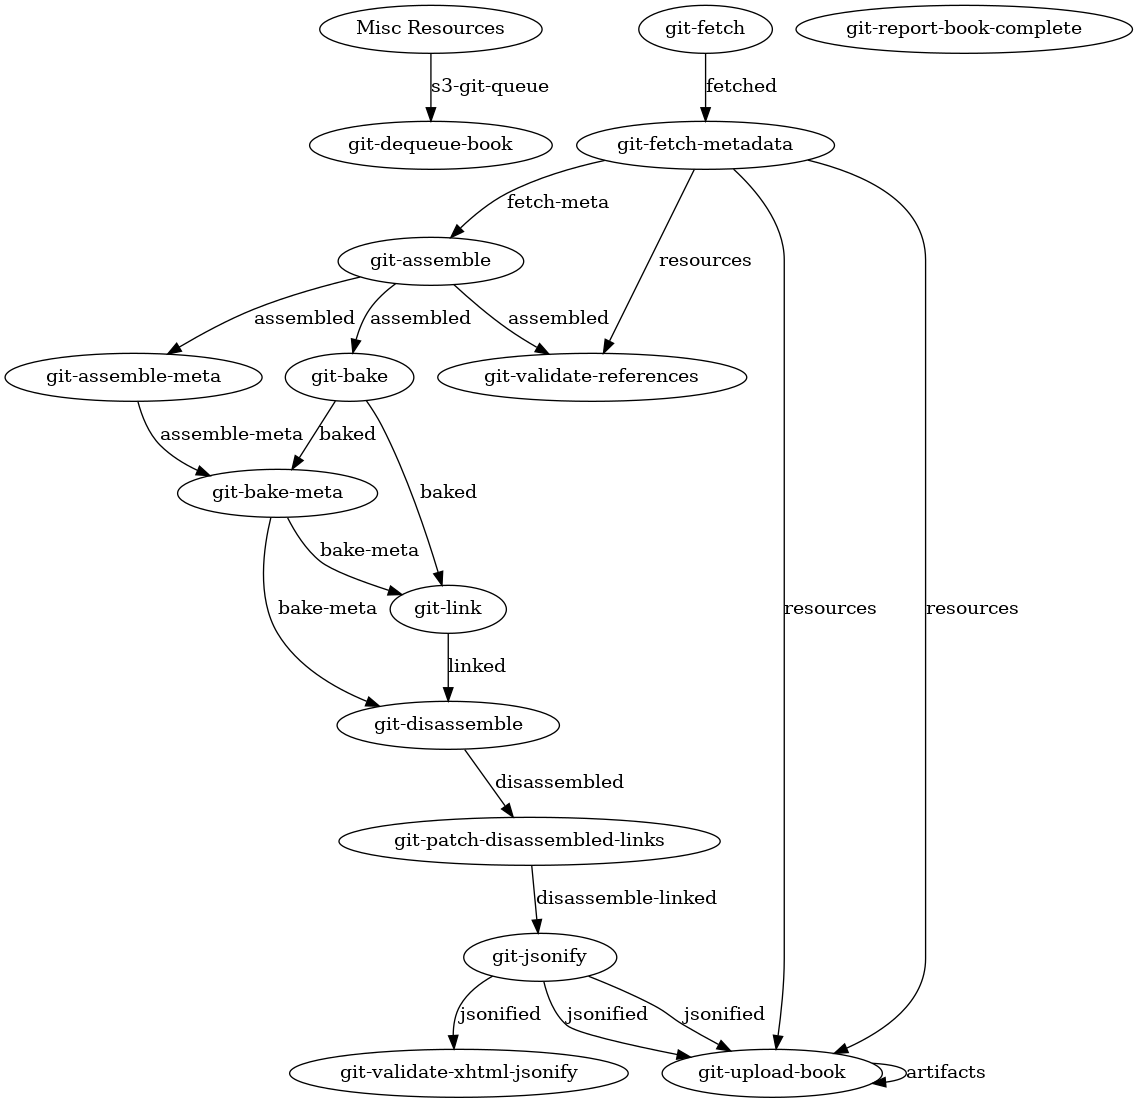
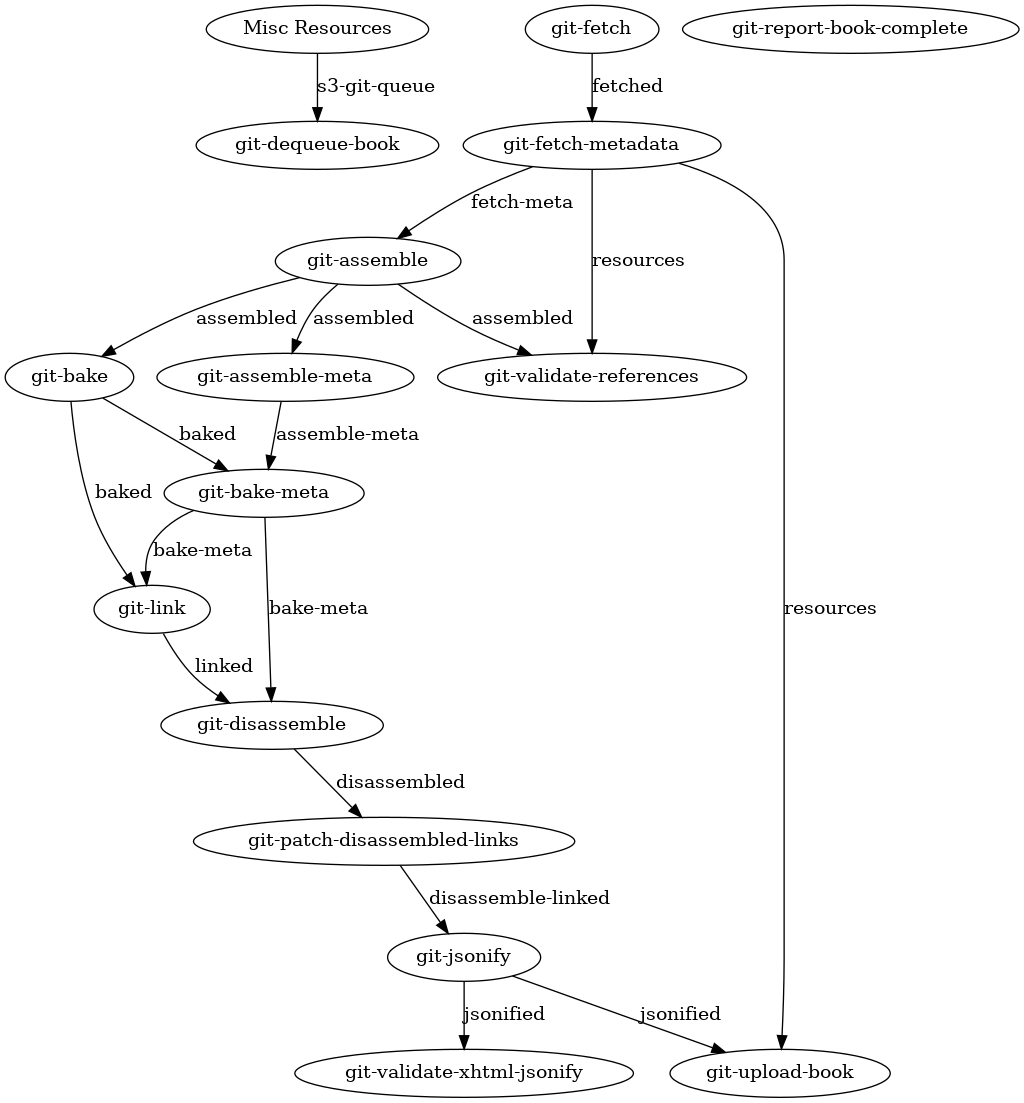
:fire: duplicate git-upload-book task in webhosting

diff --git a/build-concourse/step-definitions.ts b/build-concourse/step-definitions.ts
@@ -177,10 +177,6 @@ function buildArchiveUploadStep(requireCorgiBucket: boolean, requireWebhostingBu
     return {name: 'archive-upload-book', inputs: [IO.BOOK, IO.ARCHIVE_FETCHED, IO.ARCHIVE_JSONIFIED, IO.ARCHIVE_BOOK], outputs: [IO.ARCHIVE_UPLOAD], env: {CORGI_ARTIFACTS_S3_BUCKET: requireCorgiBucket, WEB_S3_BUCKET: requireWebhostingBucket, PREVIEW_APP_URL_PREFIX: true, AWS_ACCESS_KEY_ID: true, AWS_SECRET_ACCESS_KEY: true, AWS_SESSION_TOKEN: false}}
 }
 
-function buildGitUploadStep(requireCorgiBucket: boolean, requireWebhostingBucket: boolean) {
-    return {name: 'git-upload-book', inputs: [IO.BOOK, IO.JSONIFIED, IO.ARTIFACTS, IO.RESOURCES], outputs: [], env: {CORGI_ARTIFACTS_S3_BUCKET: requireCorgiBucket, WEB_S3_BUCKET: requireWebhostingBucket, PREVIEW_APP_URL_PREFIX: true, AWS_ACCESS_KEY_ID: true, AWS_SECRET_ACCESS_KEY: true, AWS_SESSION_TOKEN: false}}
-}
-
 export function buildLookUpBook(inputSource: RESOURCES): Step {
     return {name: 'look-up-book', inputs: [inputSource], outputs: [IO.BOOK, IO.COMMON_LOG], env: { INPUT_SOURCE_DIR: inputSource }}
 }
@@ -197,6 +193,5 @@ export const ARCHIVE_WEB_STEPS_WITH_DEQUEUE_AND_UPLOAD = [
 export const GIT_WEB_STEPS_WITH_DEQUEUE_AND_UPLOAD = [
     get('git-dequeue-book'),
     ...GIT_WEB_STEPS, 
-    buildGitUploadStep(false, true), 
     get('git-report-book-complete')
 ]
